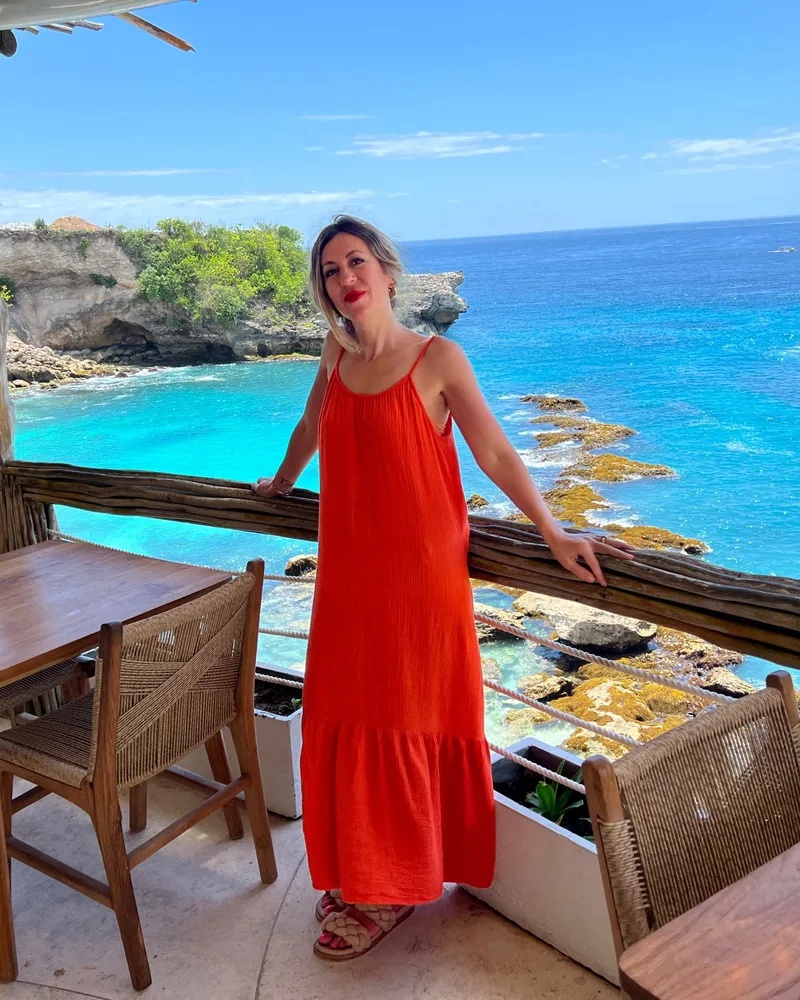
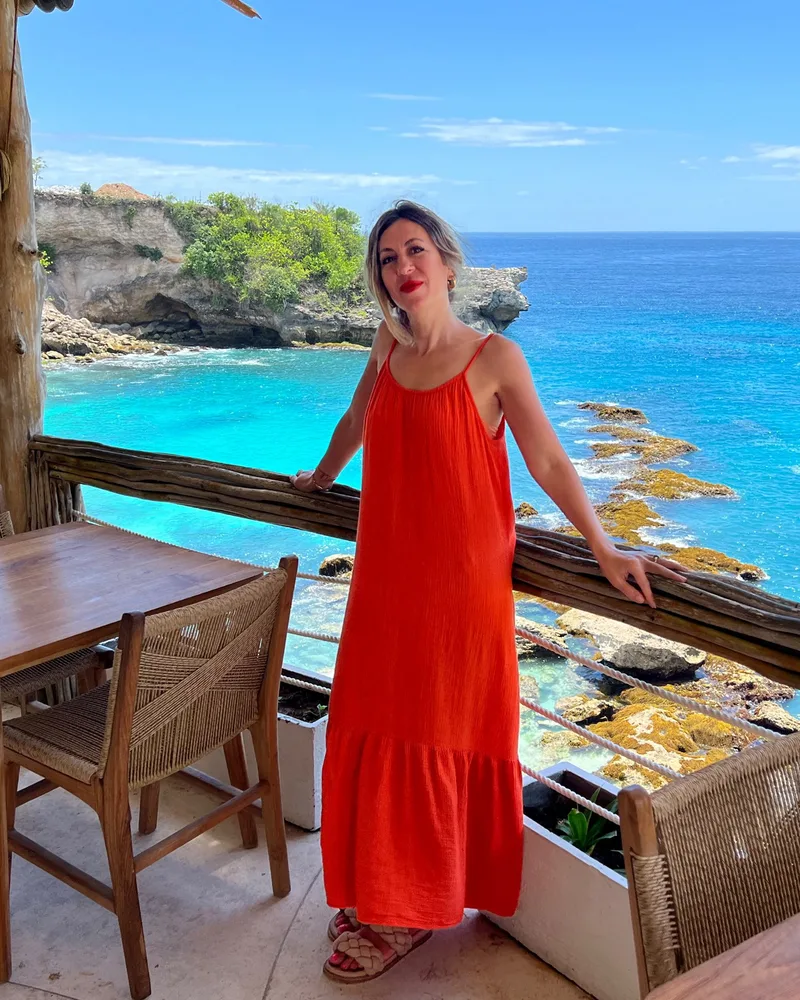
Straighten horizon in host photo
Claude-Session: https://claude.ai/code/session_01GKGYiSUB2JmcgJfXXqscxi

diff --git a/public/es/index.html b/public/es/index.html
@@ -301,7 +301,7 @@
   <section class="section host">
     <div class="host-wrap">
       <figure class="host-photo">
-        <img src="/img/jeanetta.webp?v=2" alt="Jeanetta, anfitriona de Casa Serena" loading="lazy" width="800" height="1000">
+        <img src="/img/jeanetta.webp?v=3" alt="Jeanetta, anfitriona de Casa Serena" loading="lazy" width="800" height="1000">
       </figure>
       <div class="host-card">
         <p class="eyebrow" data-i18n="host.eyebrow">Tu anfitriona</p>

diff --git a/public/index.html b/public/index.html
@@ -301,7 +301,7 @@
   <section class="section host">
     <div class="host-wrap">
       <figure class="host-photo">
-        <img src="/img/jeanetta.webp?v=2" alt="Jeanetta, gastvrouw van Casa Serena" loading="lazy" width="800" height="1000">
+        <img src="/img/jeanetta.webp?v=3" alt="Jeanetta, gastvrouw van Casa Serena" loading="lazy" width="800" height="1000">
       </figure>
       <div class="host-card">
         <p class="eyebrow" data-i18n="host.eyebrow">Je gastvrouw</p>

diff --git a/public/en/index.html b/public/en/index.html
@@ -301,7 +301,7 @@
   <section class="section host">
     <div class="host-wrap">
       <figure class="host-photo">
-        <img src="/img/jeanetta.webp?v=2" alt="Jeanetta, host of Casa Serena" loading="lazy" width="800" height="1000">
+        <img src="/img/jeanetta.webp?v=3" alt="Jeanetta, host of Casa Serena" loading="lazy" width="800" height="1000">
       </figure>
       <div class="host-card">
         <p class="eyebrow" data-i18n="host.eyebrow">Your host</p>
